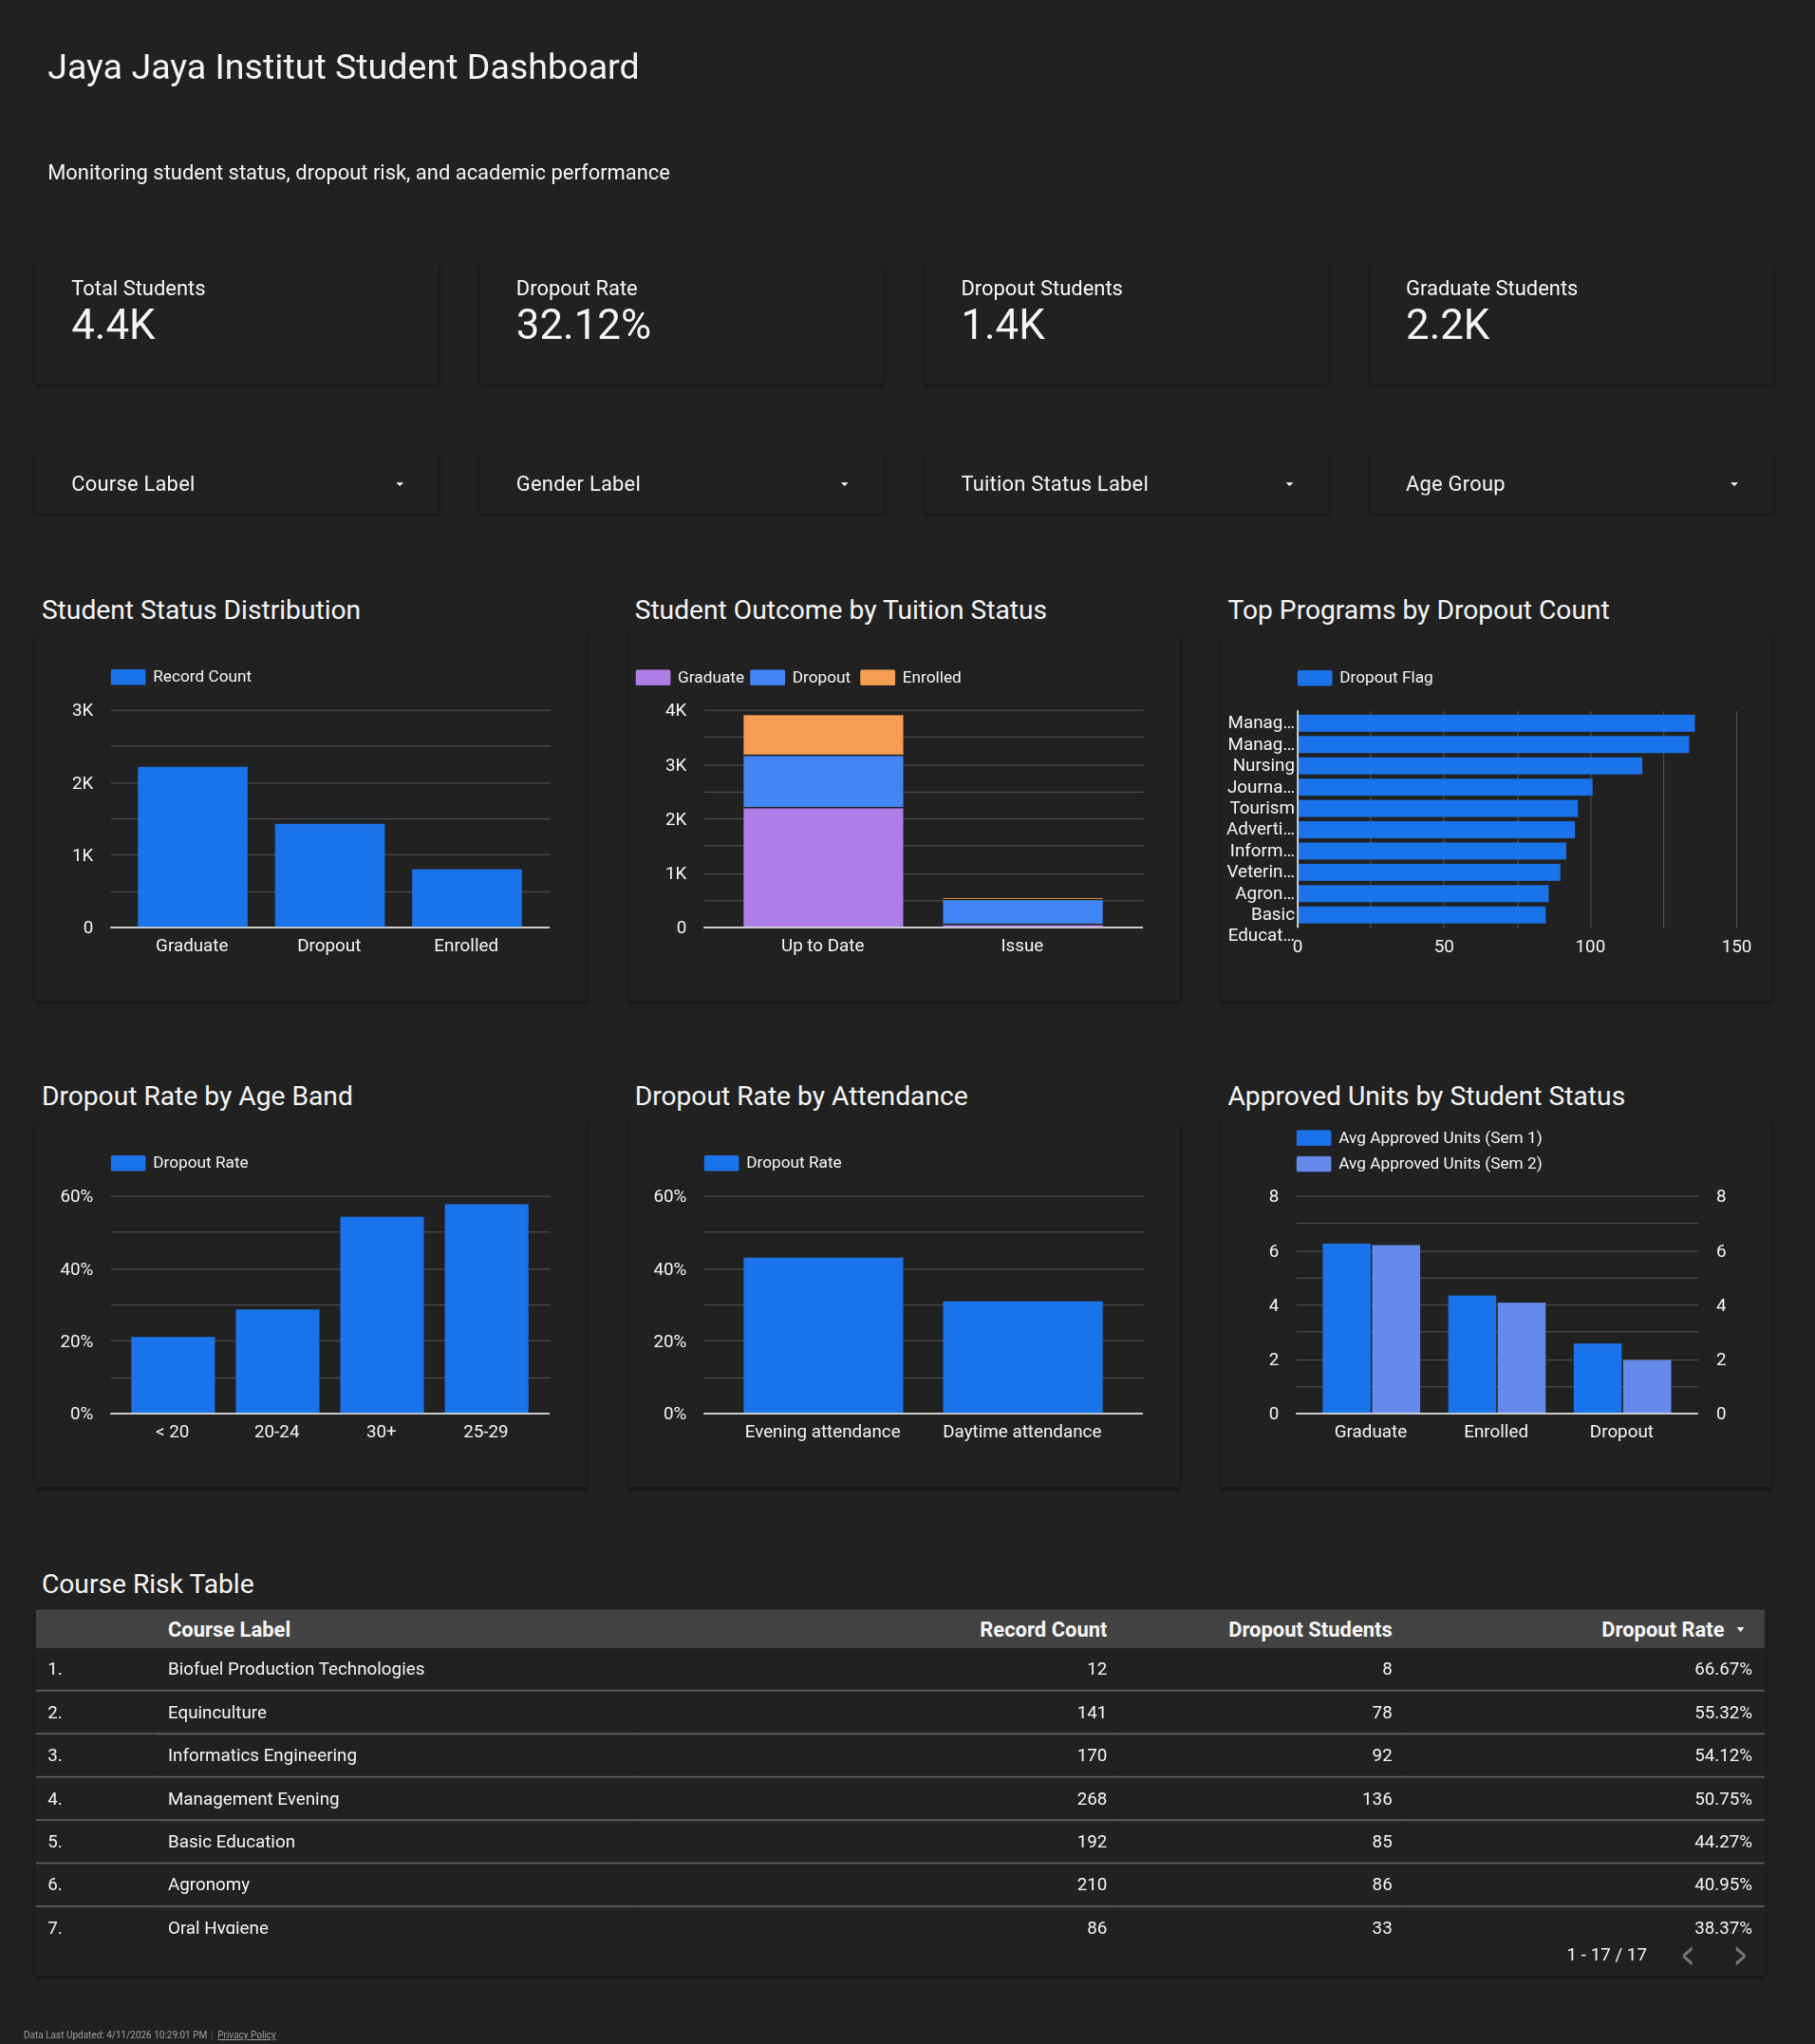
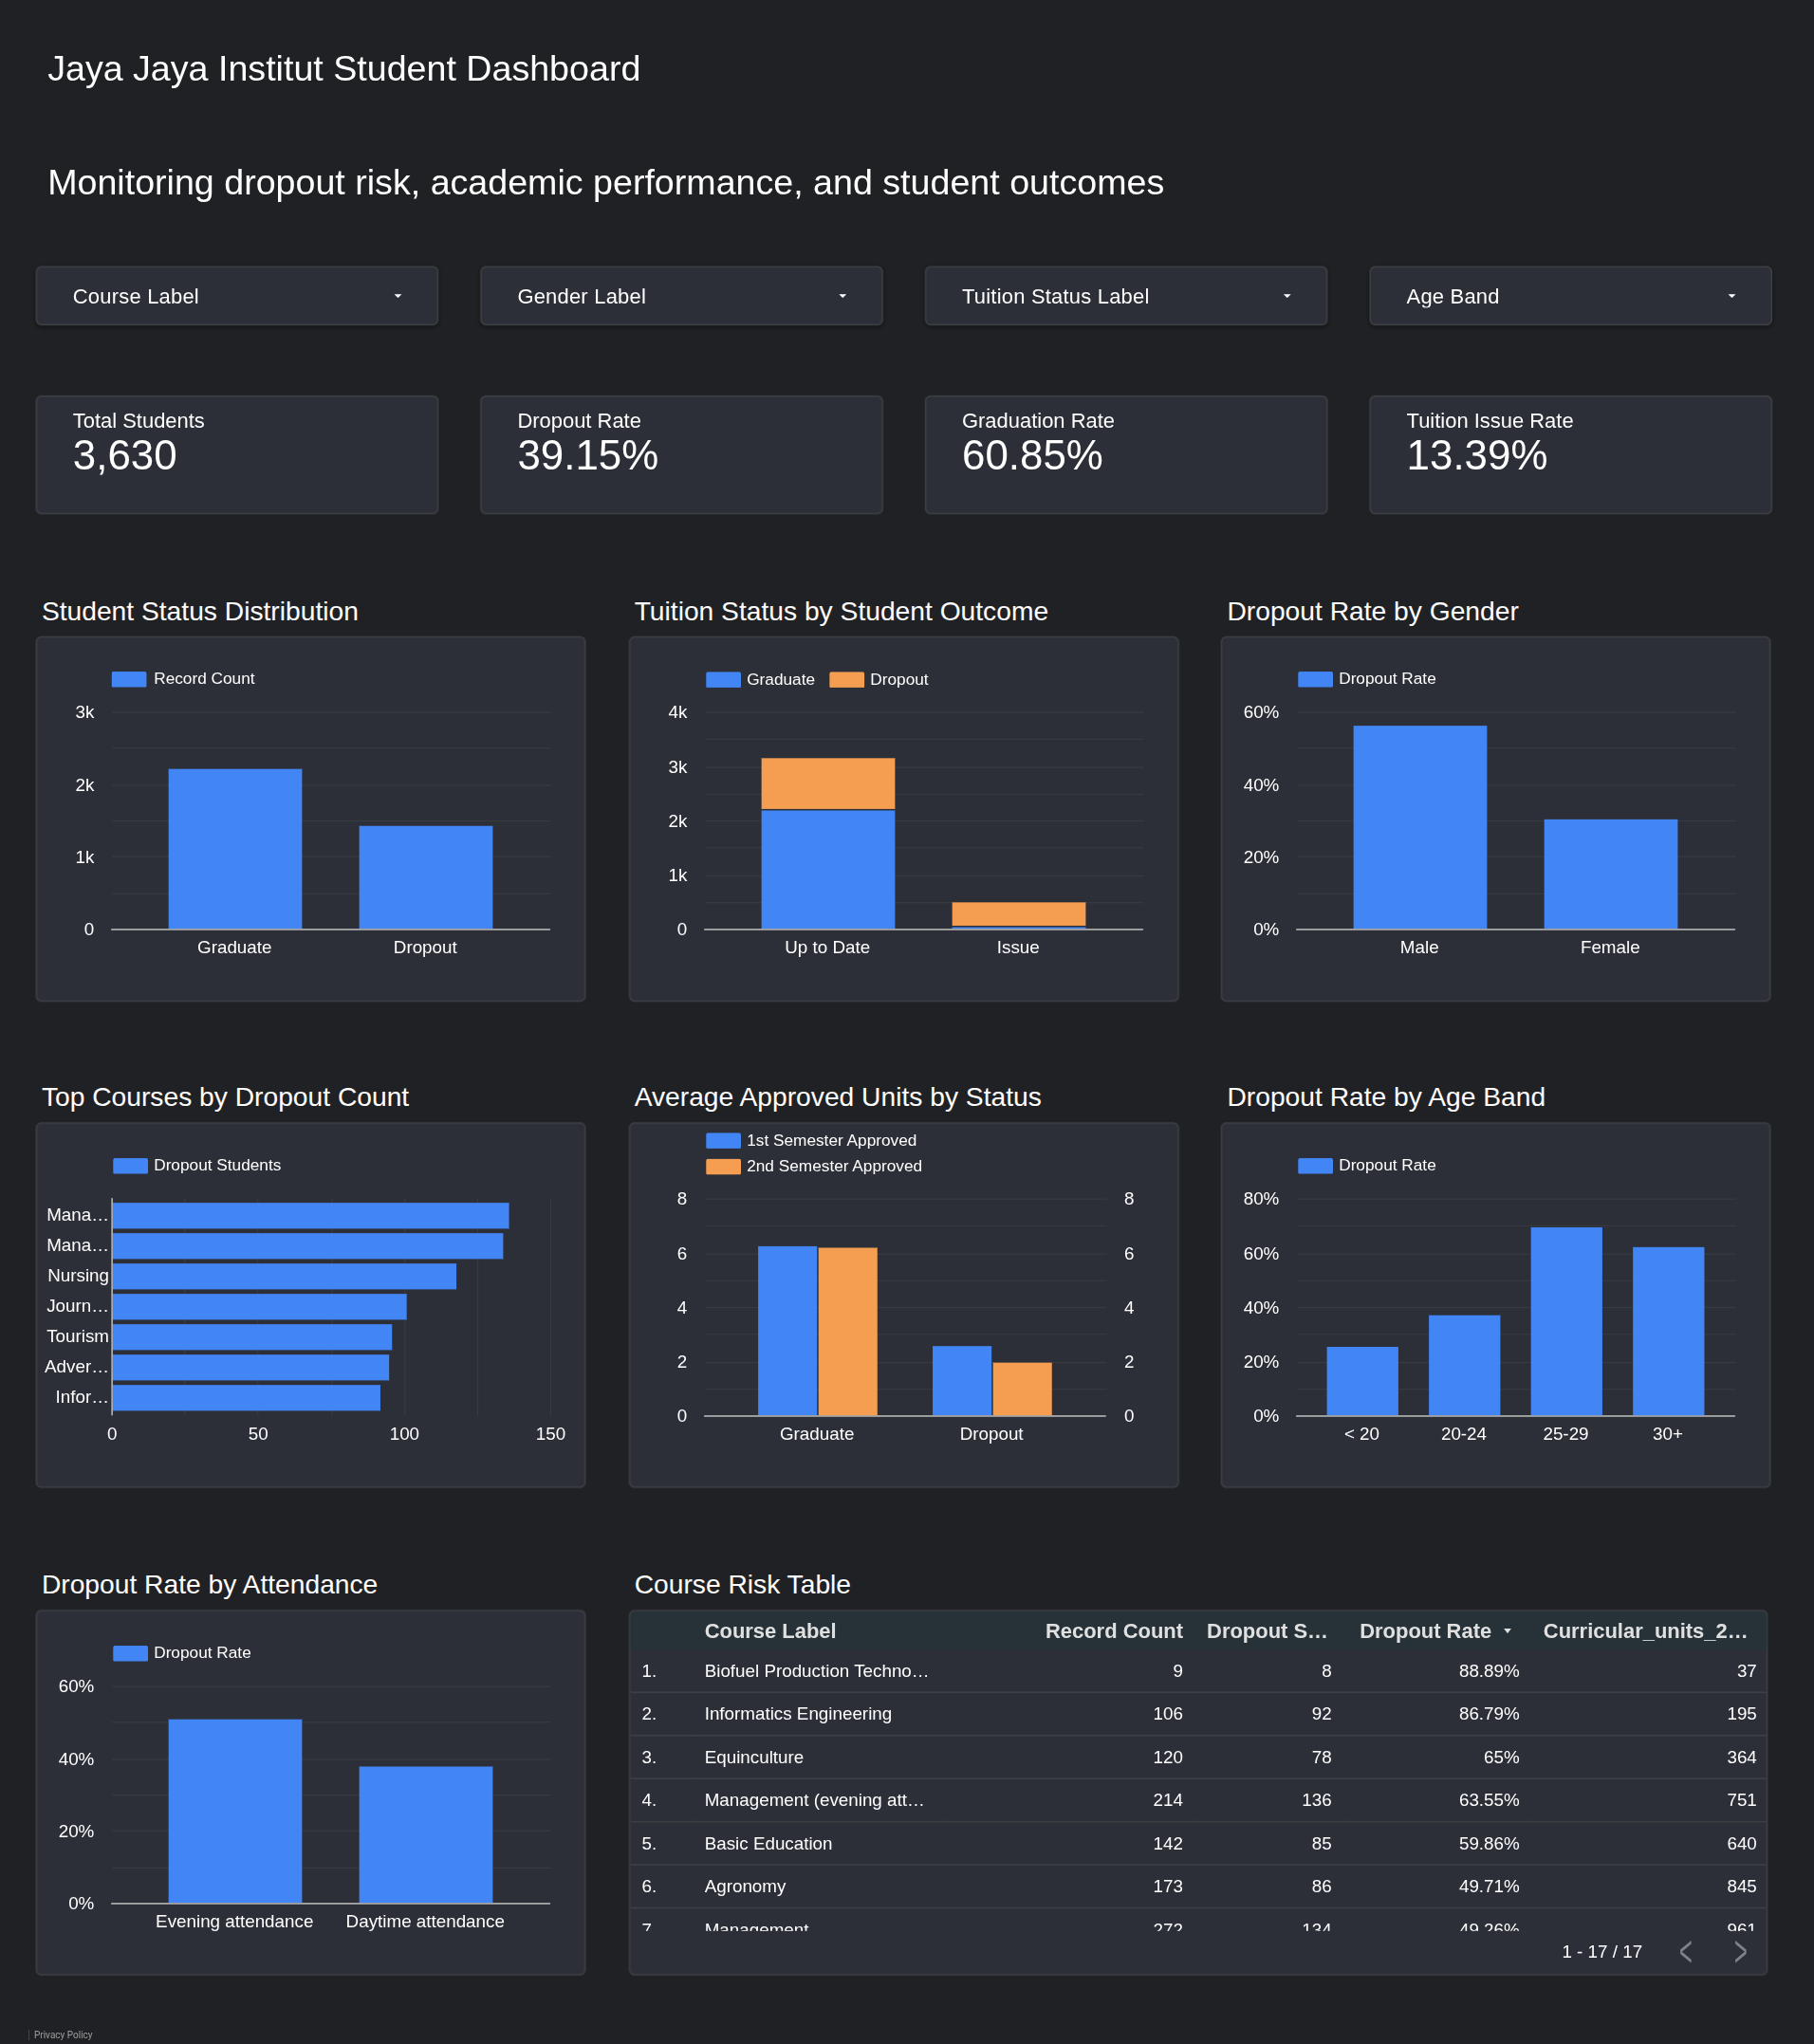
Fix Streamlit cloud status mapping and refresh assets

diff --git a/app.py b/app.py
@@ -122,6 +122,15 @@ STATUS_COPY = {
 }
 
 
+def normalize_status_label(value):
+    text = str(value).strip()
+    if text.lower() == "dropout":
+        return "Dropout"
+    if text.lower() == "graduate":
+        return "Graduate"
+    return text
+
+
 @st.cache_resource
 def load_model():
     return joblib.load(MODEL_PATH)
@@ -746,13 +755,25 @@ with prediction_tab:
         st.dataframe(input_frame, width="stretch")
 
     if submitted:
-        prediction = model.predict(input_frame)[0]
+        prediction = normalize_status_label(model.predict(input_frame)[0])
         probabilities = model.predict_proba(input_frame)[0]
         proba_df = (
-            pd.DataFrame({"Status": model.classes_, "Probability": probabilities})
+            pd.DataFrame(
+                {
+                    "Status": [normalize_status_label(label) for label in model.classes_],
+                    "Probability": probabilities,
+                }
+            )
             .sort_values("Probability", ascending=False)
         )
-        current_status = STATUS_COPY[prediction]
+        current_status = STATUS_COPY.get(
+            prediction,
+            {
+                "label": prediction,
+                "tone": "neutral",
+                "summary": "This profile was generated successfully, but the label was not found in the predefined status copy.",
+            },
+        )
 
         result_cols = st.columns(3)
         with result_cols[0].container(border=True, height="stretch"):
@@ -777,9 +798,11 @@ with prediction_tab:
         for approved_units in [0, 2, 4, 6, 8]:
             scenario_frame = input_frame.copy()
             scenario_frame["Curricular_units_2nd_sem_approved"] = approved_units
-            scenario_prediction = model.predict(scenario_frame)[0]
+            scenario_prediction = normalize_status_label(model.predict(scenario_frame)[0])
             dropout_probability = float(
-                model.predict_proba(scenario_frame)[0][list(model.classes_).index("Dropout")]
+                model.predict_proba(scenario_frame)[0][
+                    [normalize_status_label(label) for label in model.classes_].index("Dropout")
+                ]
             )
             scenario_rows.append(
                 {

diff --git a/README.md b/README.md
@@ -4,9 +4,9 @@
 Jaya Jaya Institut merupakan institusi pendidikan tinggi yang menghadapi masalah tingkat `dropout` siswa yang masih tinggi. Kondisi ini berisiko menurunkan angka kelulusan, mengganggu efektivitas program akademik, dan membuat intervensi dari pihak kampus sering terlambat dilakukan. Karena itu, proyek ini difokuskan untuk membantu institusi mendeteksi status siswa sedini mungkin berdasarkan data pendaftaran, kondisi administratif, dan performa akademik semester awal.
 
 ### Permasalahan Bisnis
-- Jaya Jaya Institut belum memiliki mekanisme yang terstruktur untuk mengidentifikasi siswa yang cenderung berakhir `Dropout` dibanding `Graduate` berdasarkan data akademik dan administratif semester awal.
-- Institusi belum memiliki dashboard monitoring yang secara spesifik menyoroti faktor-faktor yang membedakan kelompok `Dropout` dan `Graduate`, sehingga prioritas intervensi sering terlambat atau terlalu umum.
-- Institusi belum memiliki prototype machine learning yang siap digunakan untuk membantu staf akademik memperkirakan apakah profil seorang siswa lebih dekat ke pola `Dropout` atau `Graduate`.
+- Tingginya proporsi siswa yang berakhir `Dropout` berisiko menurunkan angka kelulusan serta membuat intervensi retensi menjadi terlambat dan kurang tepat sasaran.
+- Institusi masih kesulitan mengenali faktor akademik dan administratif yang paling kuat membedakan siswa yang berakhir `Dropout` dan `Graduate`, sehingga prioritas penanganan belum berbasis data.
+- Institusi belum memiliki sarana monitoring dan prototipe prediksi yang dapat membantu staf akademik membaca risiko siswa lebih dini dan mengambil tindakan yang lebih terarah.
 
 ### Cakupan Proyek
 - Melakukan analisis data siswa dari tahap business understanding sampai evaluation.
@@ -57,7 +57,7 @@ jupyter notebook notebook.ipynb
 ```
 
 ## Business Dashboard
-Dashboard bisnis utama untuk submission ini menggunakan `Metabase`, dengan sumber data yang telah difilter agar hanya mencakup siswa berstatus `Dropout` dan `Graduate`. Dashboard ini difokuskan untuk membantu institusi memonitor indikator yang paling berkaitan dengan risiko dropout, seperti status pembayaran biaya kuliah, jumlah mata kuliah yang lulus pada semester pertama dan kedua, serta perbedaan performa antar program studi.
+Dashboard bisnis utama untuk submission ini menggunakan `Metabase`, dengan sumber data yang telah difilter agar hanya mencakup siswa berstatus `Dropout` dan `Graduate`. Dashboard ini dirancang untuk menjawab kebutuhan institusi dalam memonitor risiko dropout secara cepat, mengenali kelompok siswa yang paling rentan, dan melihat faktor akademik maupun administratif yang paling relevan untuk intervensi.
 
 Metrik yang paling penting untuk dimonitor adalah:
 - proporsi siswa `Dropout` dan `Graduate`;
@@ -112,6 +112,8 @@ Catatan penting:
 Dokumentasi visual dashboard yang disertakan pada folder submission:
 
 - Screenshot dashboard Metabase: `himbarbuana-dashboard.png`
+- Link dashboard Looker Studio: `https://lookerstudio.google.com/reporting/9f7d6581-ace6-4c7c-9cf4-2c47fdf44464`
+- Screenshot dashboard Looker Studio: `lookerstudio.google.com.png`
 
 ## Menjalankan Sistem Machine Learning
 Aplikasi prototype dimuat dari model terlatih pada folder `model/student_status_pipeline.joblib`. Prototype menerima input profil siswa dan performa akademik awal, lalu menampilkan:
@@ -149,7 +151,7 @@ Dokumentasi video submission yang disertakan pada folder submission:
 - Video penjelasan proyek: `himbarbuana-video.mp4`
 
 ## Conclusion
-Proyek ini menunjukkan bahwa masalah dropout di Jaya Jaya Institut paling kuat berkaitan dengan kombinasi performa akademik awal dan kedisiplinan administrasi siswa. Fokus proyek diarahkan untuk membedakan siswa yang berakhir `Dropout` dan `Graduate`, sehingga hasil analisis dan model dapat langsung dipakai sebagai dasar intervensi retensi yang lebih praktis.
+Proyek ini menunjukkan bahwa masalah dropout di Jaya Jaya Institut paling kuat berkaitan dengan kombinasi performa akademik awal dan kedisiplinan administrasi siswa. Dengan memfokuskan analisis pada perbedaan antara siswa yang berakhir `Dropout` dan `Graduate`, project ini membantu institusi menjawab tiga kebutuhan utama: mengenali faktor risiko yang paling penting, memonitor kelompok yang paling rentan melalui dashboard, dan menyediakan prototipe prediksi yang siap dipakai untuk triase awal.
 
 Beberapa temuan utama dari analisis dan model:
 - Dataset sumber asli dari Dicoding berisi `4.424` siswa tanpa missing value dan tanpa data duplikat. Untuk submission ini digunakan dataset final berisi `3.630` siswa dengan status akhir `Dropout` dan `Graduate`, sehingga seluruh analisis, dashboard, dan pemodelan konsisten pada cakupan proyek yang sama.
@@ -159,6 +161,8 @@ Beberapa temuan utama dari analisis dan model:
 - Siswa dengan jumlah mata kuliah semester kedua yang sangat rendah, pembayaran biaya kuliah yang tidak lancar, dan capaian semester pertama yang rendah cenderung lebih dekat ke status `Dropout`, sedangkan profil yang mulai mendekati rata-rata `Graduate` umumnya memiliki capaian semester kedua sekitar `6` mata kuliah approved atau lebih.
 - Evaluasi tidak hanya menggunakan accuracy, tetapi juga `precision`, `recall`, `f1-score`, `confusion matrix`, dan `feature importance`.
 - Analisis lanjutan pada notebook juga menyiapkan evaluasi kelompok, sehingga model tidak hanya dilihat dari performa umum tetapi juga dari perilaku risiko pada subset tertentu seperti gender dan kelompok usia.
+
+Secara keseluruhan, hasil analisis, dashboard, dan prototipe machine learning pada submission ini sudah menjawab cakupan proyek yang disusun pada awal dokumen. Institusi kini memiliki dasar data yang lebih kuat untuk memantau risiko dropout, memprioritaskan intervensi, dan memperkirakan profil siswa yang lebih dekat ke pola `Dropout` atau `Graduate`.
 
 ### Rekomendasi Action Items
 - Prioritas 1: Bangun sistem peringatan dini yang menandai siswa dengan `Curricular_units_2nd_sem_approved <= 2` sebagai kandidat intervensi akademik paling mendesak. Rata-rata siswa `Dropout` hanya menyelesaikan `1,94` mata kuliah pada semester kedua, jauh di bawah kelompok `Graduate` yang berada di `6,18`, sehingga ambang ini dapat dipakai sebagai trigger awal untuk mentoring wajib, kelas remedial, dan review rencana studi dalam `1-2` minggu setelah nilai semester keluar.